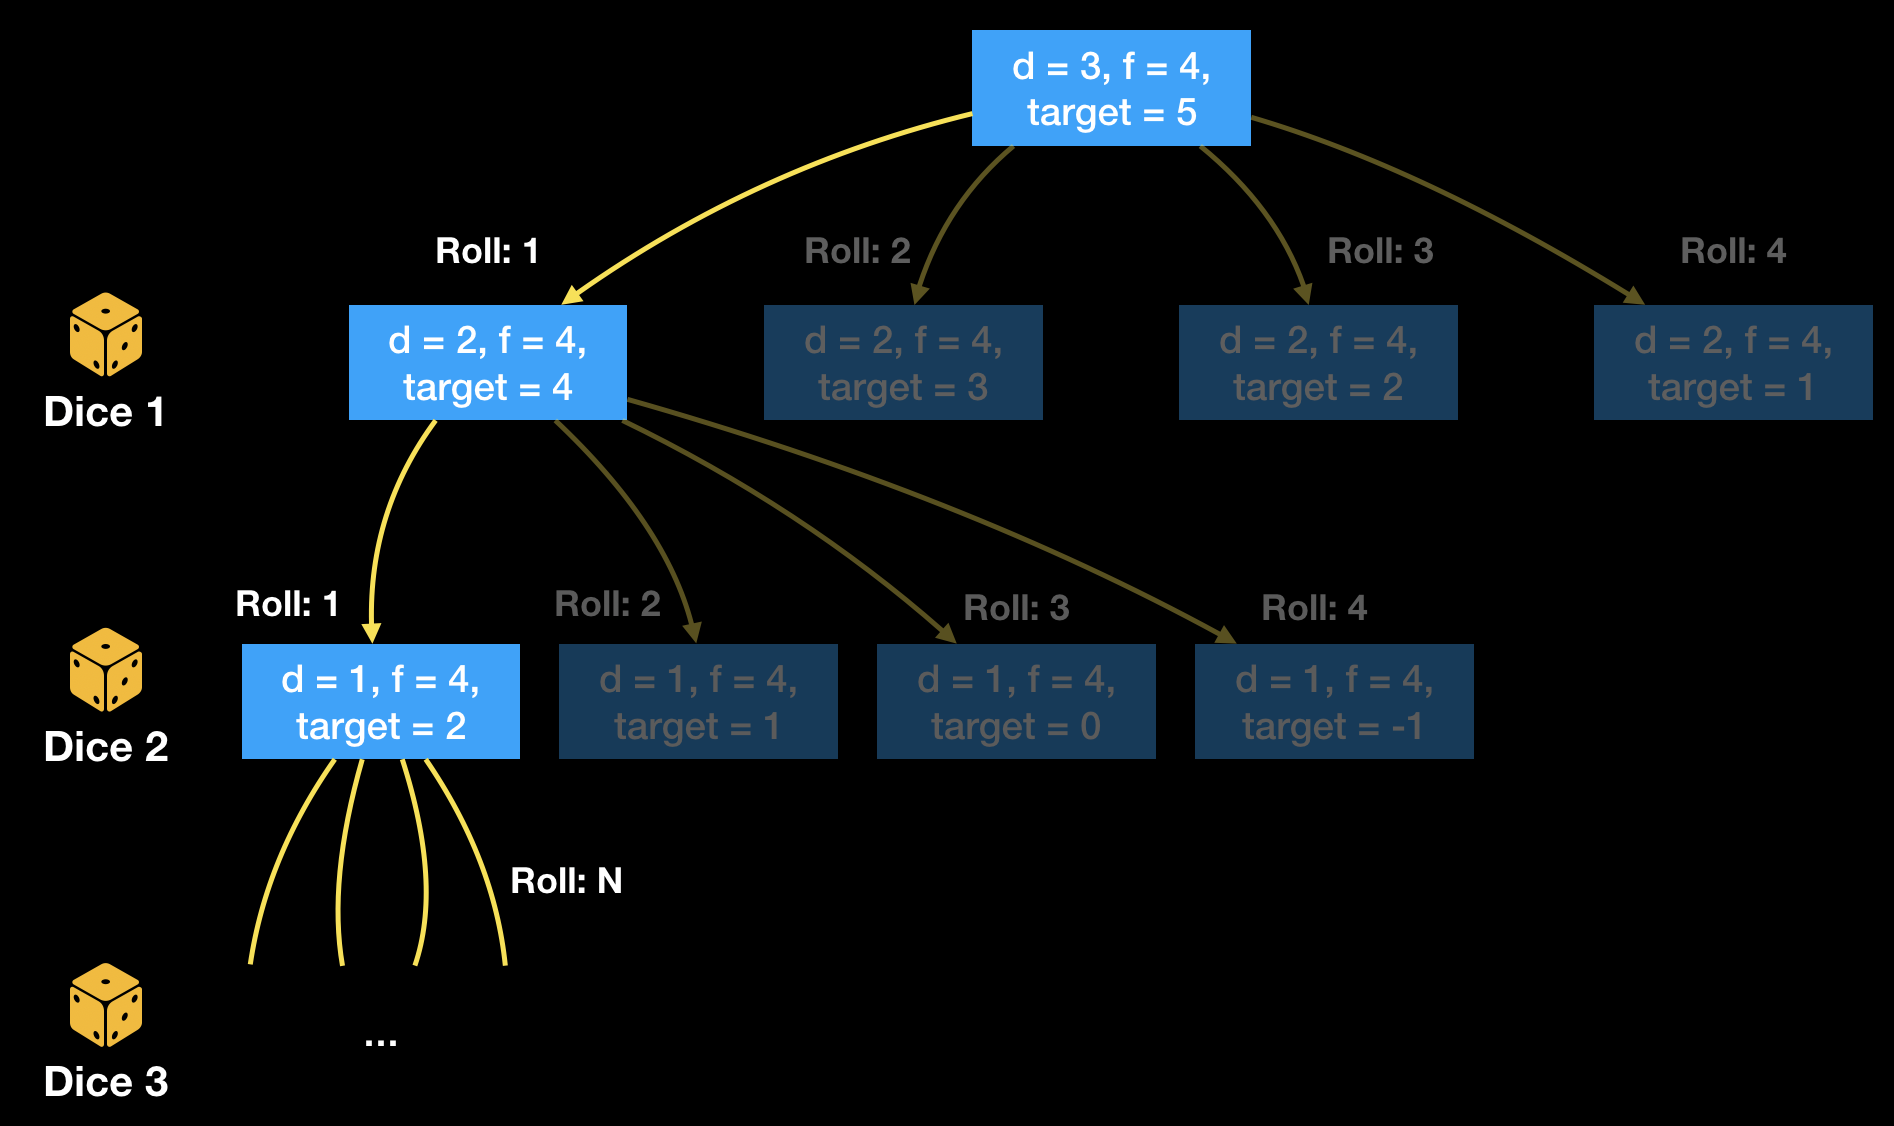
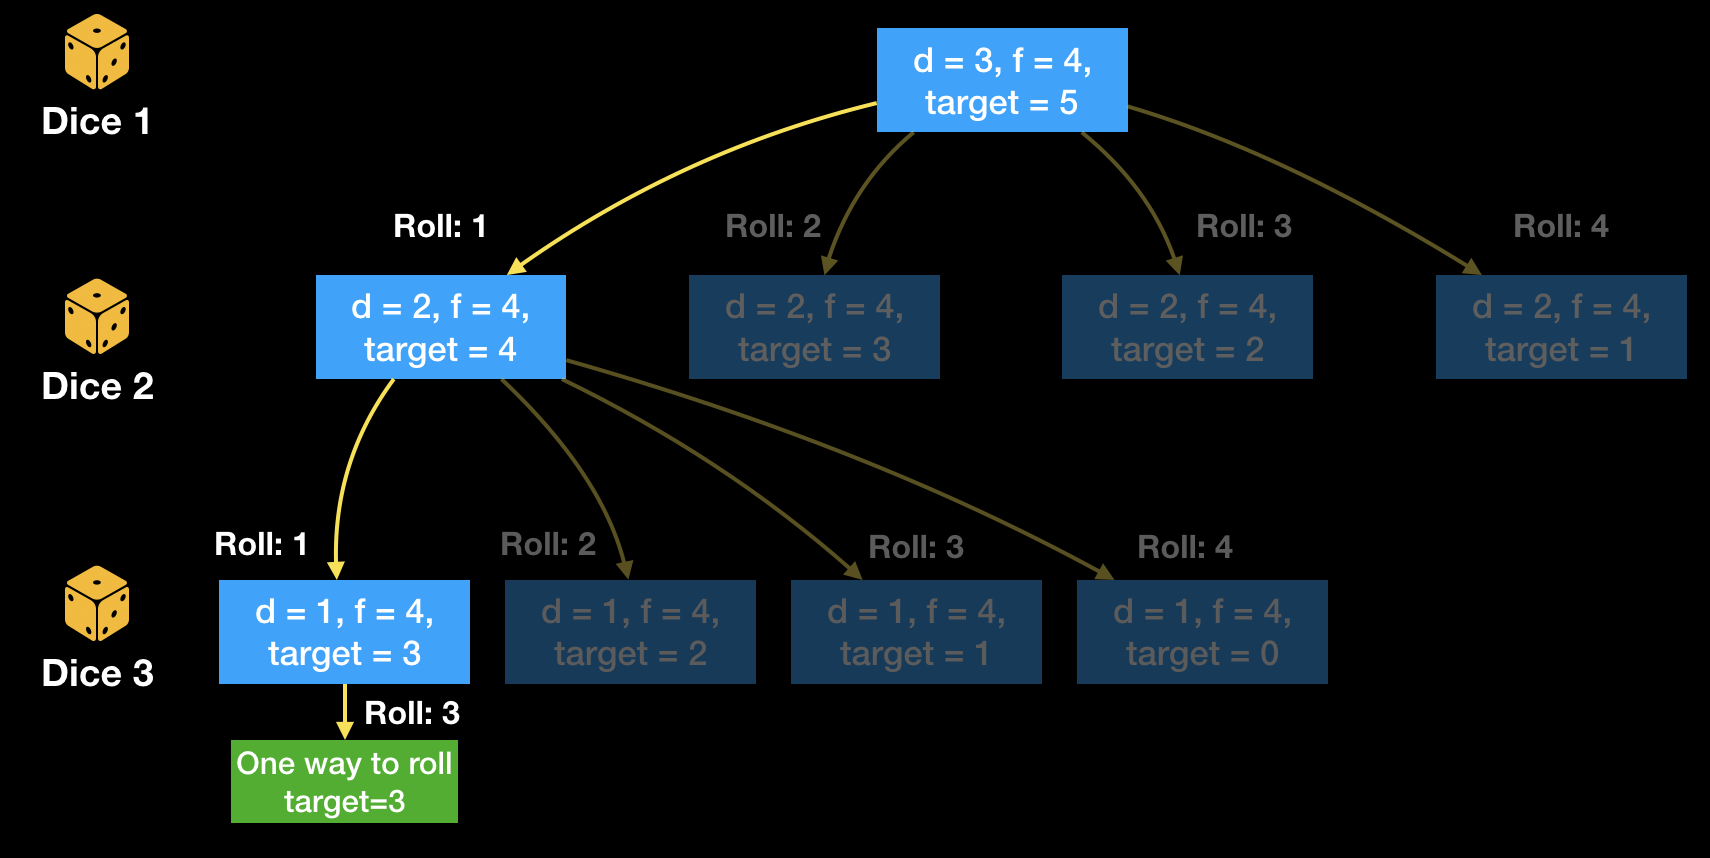
docs: Add complexity analysis, image, more docs; simplify code

diff --git a/src/algorithm_practice/Dynamic_Programming/diceRollsWithTargetSum/dice.cc b/src/algorithm_practice/Dynamic_Programming/diceRollsWithTargetSum/dice.cc
@@ -21,7 +21,7 @@ int num_rolls(int d, int f, int target, DiceMap& num_ways) {
     return 0;
   }
 
-  if (d == 1 || d == target) {
+  if (d == 1) {
     num_ways.insert({std::make_pair(d, target), 1});
     return 1;
   }

diff --git a/src/algorithm_practice/Dynamic_Programming/diceRollsWithTargetSum/oj_ans.cc b/src/algorithm_practice/Dynamic_Programming/diceRollsWithTargetSum/oj_ans.cc
@@ -20,7 +20,7 @@ public:
       return 0;
     }
 
-    if (d == 1 || d == target) {
+    if (d == 1) {
       num_ways.insert({std::make_pair(d, target), 1});
       return 1;
     }

diff --git a/src/algorithm_practice/Dynamic_Programming/diceRollsWithTargetSum/README.md b/src/algorithm_practice/Dynamic_Programming/diceRollsWithTargetSum/README.md
@@ -7,53 +7,51 @@ Source:
 The problem description is as follows:
 
 > You have d dice, and each die has f faces numbered 1, 2, ..., f.
-> Return the number of possible ways (out of fd total ways) modulo
-> 10^9 + 7 to roll the dice so the sum of the face up numbers equals target.
+> Return the number of possible ways (out of f<sup>d</sup> total ways)
+> modulo 10^9 + 7 to roll the dice so the sum of the face up numbers equals
+> target.
 
 # Top-down DFS + dynamic programming
 
 This is a really interesting problem IMO, and I like how it generalizes, with
 dice with an arbitrary number of faces. I went about approaching this as a
-backtracking problem, where we break the problem into many subproblems that we
-try and solve. Naturally this lends itself to the top-down dynamic programming
-memoization so we avoid solving the same subproblems over and over again.
+tree-recursive backtracking problem, where we break a problem into many subproblems
+that we try and solve. Naturally this lends itself to the top-down dynamic programming
+technique "memoization", to avoid solving the same subproblems multiple times.
 
-I looked at the problem like this: We consider the first die. With this die, we
-can any number in the range [1, f]. We'll simulate rolling each of these numbers
-`n in [1, f]`, and consider the subproblem of rolling `target - n` with the remaining
-`d - 1` dice. We can continue breaking the problem down into subproblems in a
-DFS-manner with these simulated rolls and updated targets, until we get to the trivial
-case where we have one die to roll, and a given target. We *can* roll the target sum
-with one die if the target is within the range [1, f]. This gives us a tree like so:
+I looked at the problem like this: I break the problem of determining how many rolls are
+possible with `d` dice to roll target `t` by focusing on one die, which when rolled, can
+take on any value in the range `[1, min(f, t)]`. This is because we need not consider
+face values greater than `t`, because we'll never be able to roll `t` with them. We'll
+simulate rolling each of `n in [1, min(f, t)]` values for one die, and recurse to the
+subproblem of rolling `target - n` with the remaining `d - 1` dice. We can continue breaking
+the problem into subproblems in a DFS-manner until we get to the trivial case where `d = 1`.
+This gives us a tree like so:
 
 ![tree](tree.png)
 
-When we get to the bottom level, we know how many ways there are to roll `target` (if
-any) with all dice/target combinations `<d, target>` in the current DFS path. As we unwind
-our recursion, we should save our results in a map `{<d, target>: possibilities}`. We'll
-consult this map before we recurse; it is the "memo" in memoization.
+When we get to the base case `d = 1`, we know whether or not we can roll this stack
+frame's `target` with a single die, and can return `1` or `0`. As we unwind our
+recursion upwards, we should save our results in a map `{<d, target>: possibilities}`.
+For each node in the tree, we'll sum together the results of the subproblems, save this
+result in the map, and return it. We'll also consult this map before we recurse to check
+for our previous work; it is the "memo" in memoization.
 
 Clearly the total tree can be quite large, since we have a branching factor of `f` and
-a depth of `d + 1` nodes and `d` edges. The overall size of this tree will be
-_O(f<sup>d + 1</sup>)_ which is quite large, but our memoization prevents us from traversing
-the entirety of it.
+a depth of `d` nodes and `d - 1` edges. The overall size of this tree will be
+_O(f<sup>d</sup>)_ but our memoization prevents us from traversing the entirety of it.
 
 ## Complexity analysis
 
- - Time complexity: As mentioned, the tree size and full traversal would be _O(f<sup>d + 1</sup>)_,
-   but we don't have to pay that full price with memoization, however I'm not sure how to quantify
-   the savings in terms of asymptotic complexity.
+ - Time complexity: As mentioned, the tree size and full traversal would be _O(f<sup>d</sup>)_,
+   but with memoization, we don't have to pay that full price. Instead, we compute and store
+   at most _O(d\*t)_ entries, and for each subproblem (node in the tree), we sum together
+   _O(min(f, t))_ subproblem sums. This gives us a complexity of _O(d\*min(f, t)\*t)_. You could be
+   less descriptive by realizing _f = O(t)_, yeilding a complexity of _O(d\*t<sup>2</sup>)_.
  - Space complexity: Without memoization, the space would be implicit with recursive stack frames
-   being _O(d)_. With memoization....TODO.
+   being _O(d)_ deep. With memoization, the map can store _O(d\*t)_ entries.
 
 # Bottom-up dynamic programming
 
-TODO(domfarolino): I believe we can also do this in a bottom-manner with a 2d-array as our dynamic
-programming cache. I should write this solution.
-
-## Complexity analysis
-
- - Time complexity: O(d\*f\*target)
-    - Because we have to iterate through the entire d\*target table, and for each entry, accumulate
-      the sum of the _f_ subproblems that compose it
- - Space complexity: O(d\*target), which is the size of our dynamic programming table
+TODO(domfarolino): This problem also has an elegant bottom-up dynamic programming solution that
+can be derived from the top-down one above. I should implement and describe it here.
